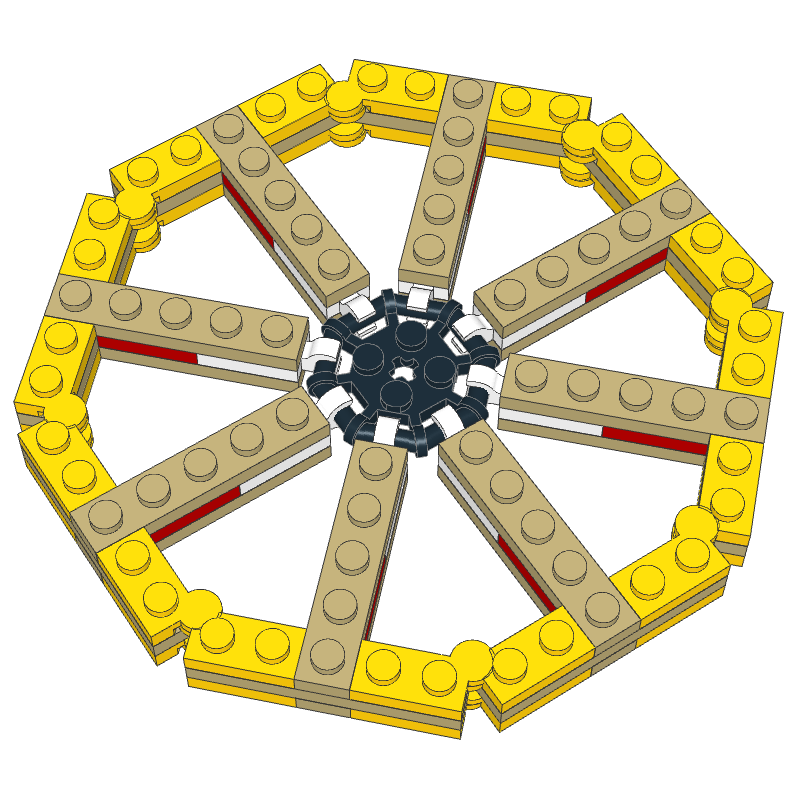
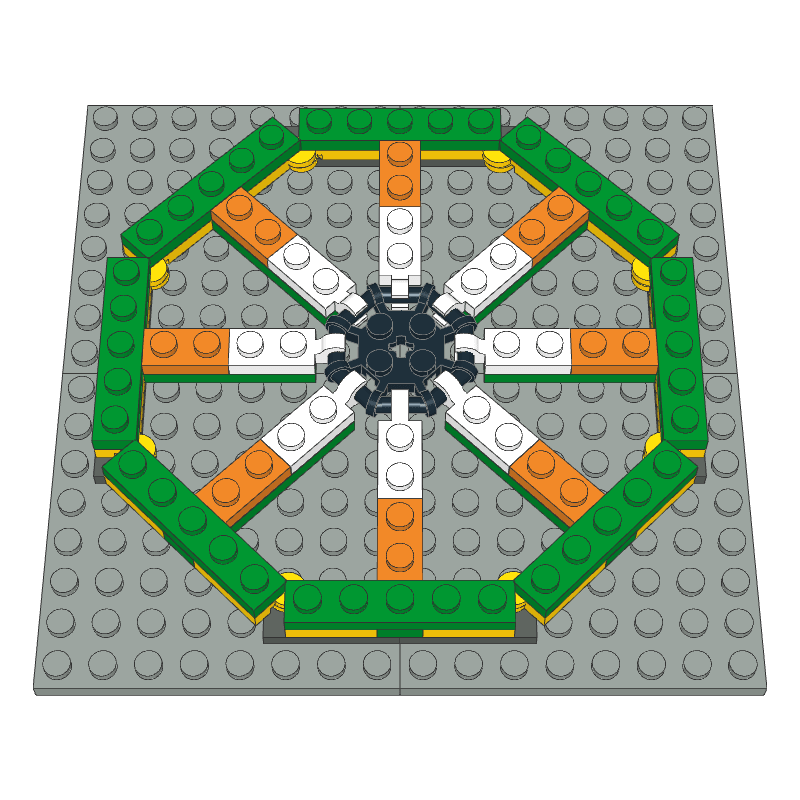
Highlight stud-grid compatibility of e239

diff --git a/content/entries/02xx/0239/index.md b/content/entries/02xx/0239/index.md
@@ -4,8 +4,9 @@ date  = '2026-08-08'
 
 url     = '/entry/1x5-plate-octagon/'
 aliases = ['/e/239']
+render  = { lat = 60, lon = 0 }
 
-parts = ['75937', '78329', '73983', '63868', '3023']
+parts = ['75937', '78329', '73983', '63868', '3023', '41539', '34103']
 size = ['14s', '14s', '1b']
 tags = [
   'angle-studturn-45',
@@ -24,3 +25,11 @@ tags = [
 >}}
 As a general rule, it's impossible to connect the sides of a regular polygon to its center in a legal way, since the apothem is always irrational (with the exception of the 4-sided polygon: a square). However, you can get pretty close sometimes, in fact close enough to work well.
 {{< /linkbox >}}
+
+{{< linkbox
+    author="-Brixe"
+    date="2025-03-12"
+    image="link_02.jpg"
+    title="Octagon 14 x 14"
+    url="https://www.flickr.com/photos/brixe/54382368904"
+/>}}

diff --git a/content/parts/34103/_index.md b/content/parts/34103/_index.md
@@ -1,0 +1,7 @@
++++
+title   = 'Plate Special 1 x 3 with 2 Studs (Jumper)'
+
+[params]
+rebrickablePage  = 'https://rebrickable.com/parts/34103/plate-special-1-x-3-with-2-studs-with-groove-and-inside-stud-holder-jumper/'
+rebrickableImage = 'https://cdn.rebrickable.com/media/parts/elements/6211969.jpg'
++++

diff --git a/content/parts/41539/_index.md b/content/parts/41539/_index.md
@@ -1,0 +1,7 @@
++++
+title   = 'Plate 8 x 8'
+
+[params]
+rebrickablePage  = 'https://rebrickable.com/parts/41539/plate-8-x-8/'
+rebrickableImage = 'https://cdn.rebrickable.com/media/parts/elements/4166618.jpg'
++++
